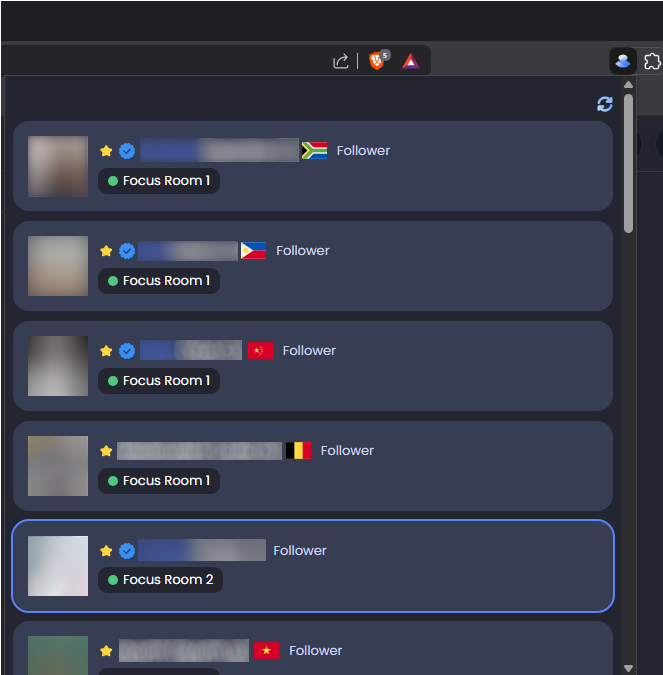
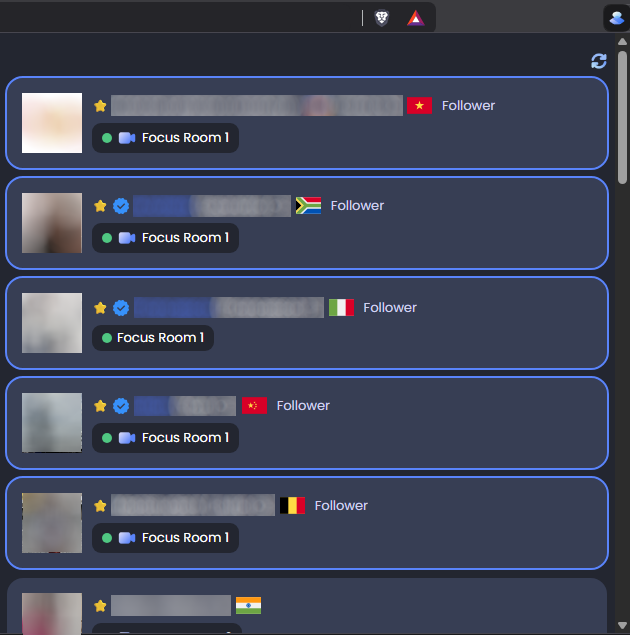
feat: Show which followed users have their cameras enabled

diff --git a/app/background.js b/app/background.js
@@ -169,6 +169,8 @@ async function refreshUsers(token = null) {
             userList.forEach(user => user.pinner = pinningUserIds.includes(user.id));
         }
 
+        await setUserCamStatus(userList, token);
+
         await setSessionStorageData("usersInRooms", userList);
 
         await startAlarm("refreshUsers");
@@ -192,8 +194,7 @@ async function getUsers(refresh) {
 }
 
 async function checkPinningUsers(token) {
-    if ((await getSessionStorageData("premiumUser")) !== true
-            || (await getCurrentRoom()) == null) {
+    if ((await getSessionStorageData("premiumUser")) !== true || (await getCurrentRoom()) == null) {
         return [];
     }
 
@@ -234,6 +235,35 @@ async function getPinningUsers(token) {
         throw new PremiumUserFeatureForbidden("Failed to retrieve pinning users");
     }
     return response.ok ? await response.json() : [];
+}
+
+async function setUserCamStatus(userList, token) {
+    if ((await getSessionStorageData("premiumUser")) !== true || (await getCurrentRoom()) == null) {
+        return;
+    }
+
+    try {
+        for (let user of userList) {
+            user.camEnabled = await isUserCamEnabled(user.id, token);
+        }
+    } catch (error) {
+        if (error instanceof PremiumUserFeatureForbidden) {
+            await removeSessionStorageData("premiumUser");
+        } else {
+            throw error;
+        }
+    }
+}
+
+async function isUserCamEnabled(userId, token) {
+    const response = await fetch(
+        `https://api.studystream.live/api/users/${userId}/focus-room/video-sessions`,
+        { method: "GET", headers: { "Authorization": `Bearer ${token}` } });
+    if (response.status === 403) {
+        throw new PremiumUserFeatureForbidden("Failed check if user cam is enabled");
+    }
+    const videoSessions = response.ok ? await response.json() : [];
+    return videoSessions.length > 0 && videoSessions[0].end == null
 }
 
 async function getToken() {

diff --git a/app/popup.html b/app/popup.html
@@ -59,7 +59,9 @@
                     <div class="buddy-follower">Follower</div>
                 </div>
                 <div class="buddy-room">
-                    <div class="online-indicator"></div><div class="room-name"></div>
+                    <div class="online-indicator"></div>
+                    <img class="cam-indicator" src="images/cam.png"/>
+                    <div class="room-name"></div>
                 </div>
             </div>
         </div>

diff --git a/app/popup.js b/app/popup.js
@@ -131,6 +131,10 @@ function createBuddyElement(buddy) {
         removeDescendent(buddyElement, ".buddy-follower");
     }
 
+    if (!buddy.camEnabled) {
+        removeDescendent(buddyElement, ".cam-indicator");
+    }
+
     buddyElement.querySelector(".room-name").textContent = buddy.room.name;
 
     return buddyElement;

diff --git a/app/popup.css b/app/popup.css
@@ -204,6 +204,10 @@ button.primary:hover {
     height: 10px;
 }
 
+.cam-indicator {
+    width: 20px;
+}
+
 .buddy-follower {
     font-weight: 400;
     font-size: 13px;

diff --git a/README.md b/README.md
@@ -7,6 +7,7 @@ that provides the following additional features:
 - Displays a notification when a favourite followed user enters a focused room.
 - Highlights followed users who are currently pinning you (requires a premium subscription).
 - Displays a notification when anyone pins you (requires a premium subscription).
+- Shows which followed users have their cameras enabled (requires a premium subscription).
 
 ![Popup screenshot](screenshots/popup.png)
 
